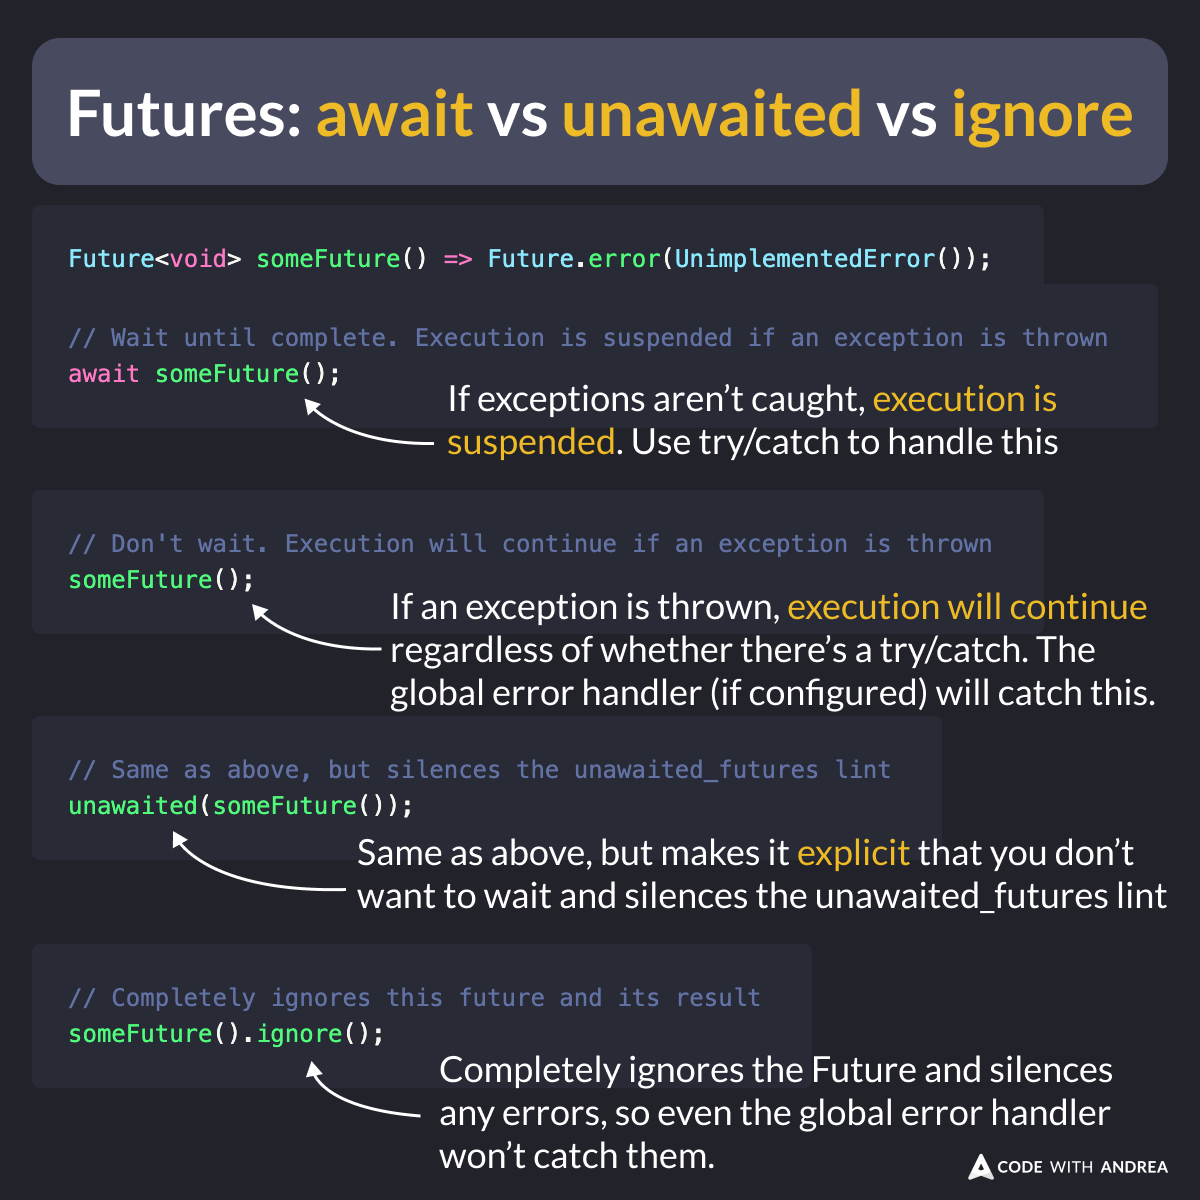
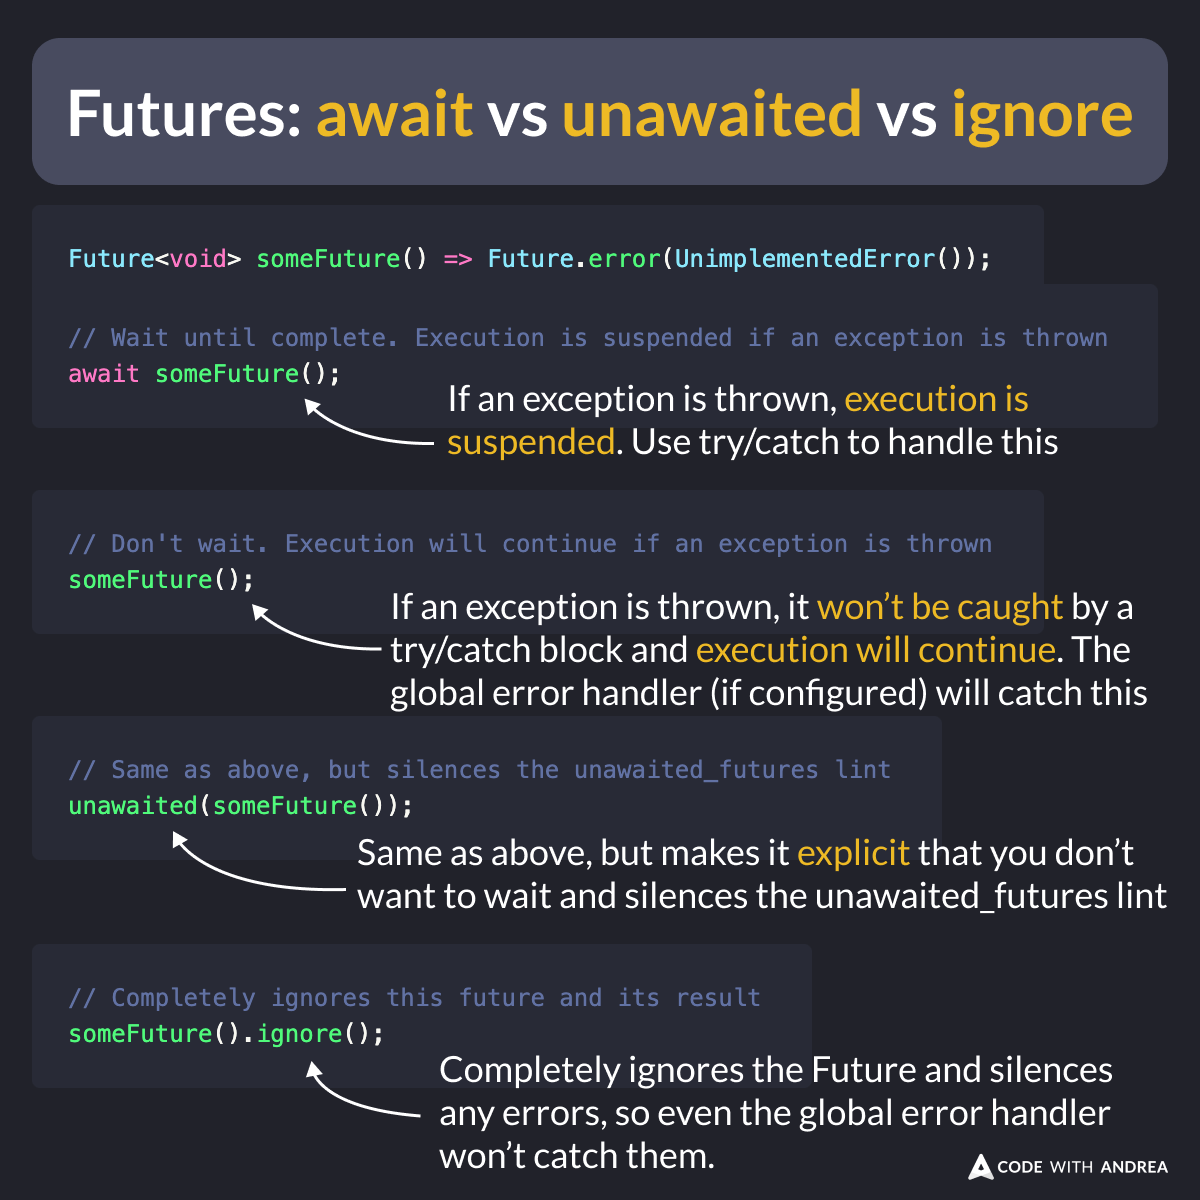
Update tip 178

Changed region(s): [[0.3083, 0.4933, 0.9558, 0.555], [0.4008, 0.3083, 0.8942, 0.37]]

diff --git a/README.md b/README.md
@@ -18,7 +18,7 @@ This repo now has a companion app! [Download it here](https://fluttertips.dev/) 
 
 | ID | View on GitHub (this repo)                                                                                                                                                        | Twitter Post   | LinkedIn Post | Link on [codewithandrea.com](https://codewithandrea.com/)                                                                            |
 | -- |-----------------------------------------------------------------------------------------------------------------------------------------------------------------------------------| -------------- | ------------- | ------------------------------------------------------------------------------------------------------------------------------------ |
-| 178 | [Futures: await vs unawaited vs ignore](tips/0178-await-vs-unawaited-vs-ignore/index.md) | | | |
+| 178 | [Futures: await vs unawaited vs ignore](tips/0178-await-vs-unawaited-vs-ignore/index.md) | [link](https://x.com/biz84/status/1819362519879713221) | [link](https://www.linkedin.com/posts/andreabizzotto_when-you-call-a-method-that-returns-a-future-activity-7225128409583005698-FKIq) | |
 | 177 | [Useful arguments in the log function (from dart:developer)](tips/0177-log-function-args/index.md) | [link](https://x.com/biz84/status/1818615169108324603) | [link](https://www.linkedin.com/posts/andreabizzotto_did-you-know-the-humble-log-function-activity-7224381117770956800-8mvt) | |
 | 176 | [Use unawaited for your analytics calls](tips/0176-use-unawaited-analytics-calls/index.md) | [link](https://x.com/biz84/status/1818294816523870655) | [link](https://www.linkedin.com/posts/andreabizzotto_take-2-when-tracking-analytics-events-activity-7224060927837384704-TPb4) | |
 | 175 | [How to use --dart-define-from-file with .env and json files](tips/0175-dart-define-from-file-env-json/index.md) | [link](https://x.com/biz84/status/1815754159666176419) | [link](https://www.linkedin.com/posts/andreabizzotto_did-you-know-by-doing-some-string-manipulation-activity-7221520196753133568-fGId) | [link](https://codewithandrea.com/articles/flutter-api-keys-dart-define-env-files/) |

diff --git a/tips/0178-await-vs-unawaited-vs-ignore/index.md b/tips/0178-await-vs-unawaited-vs-ignore/index.md
@@ -1,12 +1,12 @@
 # Futures: await vs unawaited vs ignore
 
-When you call a method that returns a Future, you have a decision to make:
+When you call a method that returns a `Future`, you have a decision to make:
 
 - use await (most common)
 - use unawaited
 - use ignore
 
-This decision affects how the code is executed when the Future throws, so make sure you understand each case well.
+This decision affects how the code is executed when the `Future` throws, so make sure you understand each case well.
 
 Here's an explanation. 👇
 
@@ -29,6 +29,8 @@ someFuture().ignore();
 ```
 -->
 
+---
+
 Here are some resources where you can learn more:
 
 - [Asynchrony support](https://dart.dev/language/async)
@@ -40,3 +42,7 @@ Here are some resources where you can learn more:
 | Previous | Next |
 | -------- | ---- |
 | [Useful arguments in the log function (from dart:developer)](../0177-log-function-args/index.md) |  |
+
+
+<!-- TWITTER|https://x.com/biz84/status/1819362519879713221 -->
+<!-- LINKEDIN|https://www.linkedin.com/posts/andreabizzotto_when-you-call-a-method-that-returns-a-future-activity-7225128409583005698-FKIq -->
